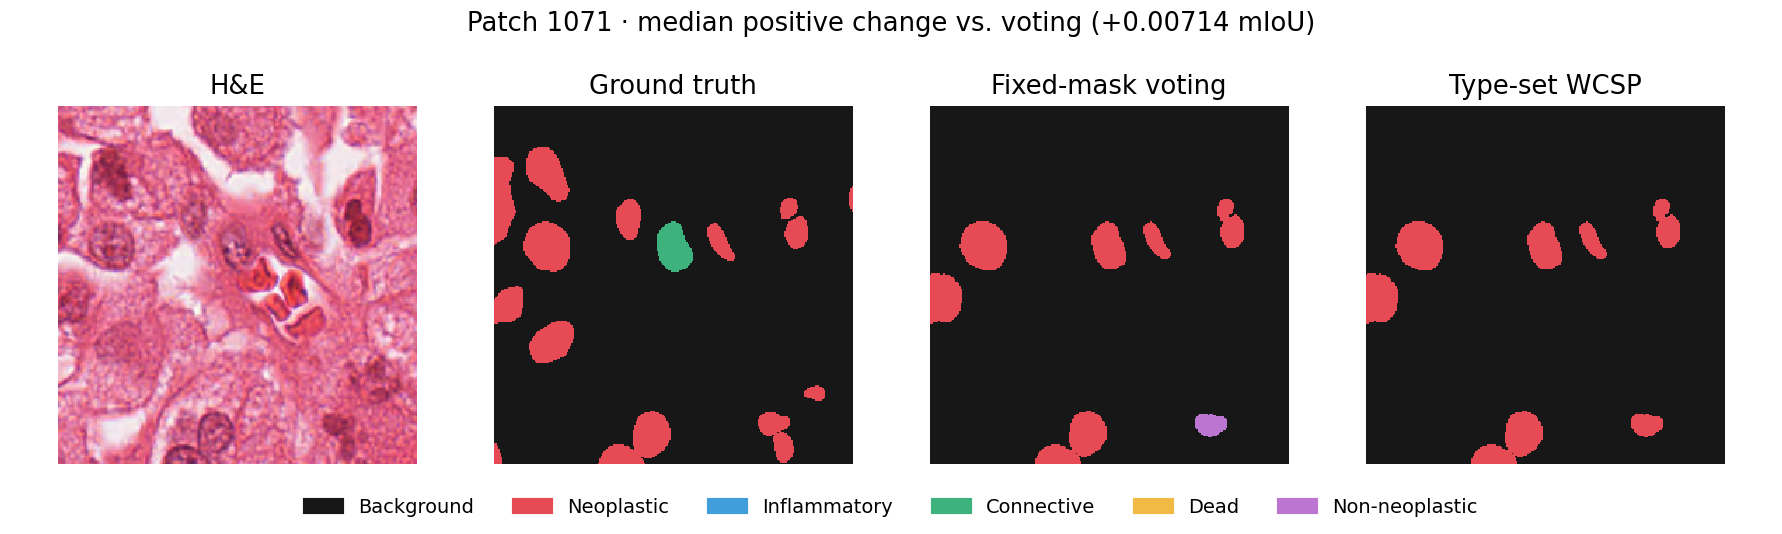
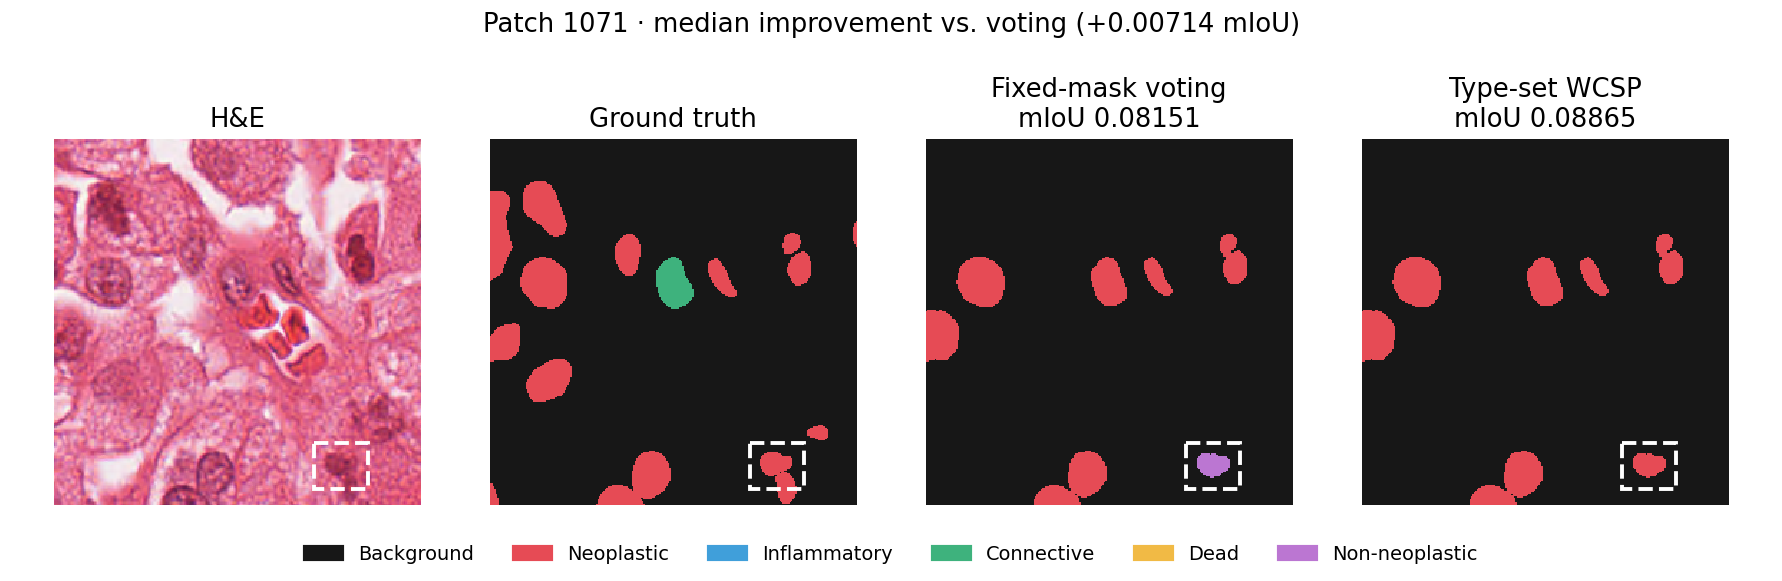
Highlight the corrected nucleus in the PanNuke presentation example

diff --git a/experiments/pannuke_wcsp/presence_scale_20261114/diagnostics.py b/experiments/pannuke_wcsp/presence_scale_20261114/diagnostics.py
@@ -6,7 +6,7 @@ import matplotlib
 matplotlib.use("Agg")
 import matplotlib.pyplot as plt
 from matplotlib.colors import ListedColormap
-from matplotlib.patches import Patch
+from matplotlib.patches import Patch, Rectangle
 import numpy as np
 from scipy.ndimage import distance_transform_edt
 
@@ -139,16 +139,28 @@ def example_figure(example):
     vote, winner = [np.load(CACHE / "outputs" / key / f"{idx:04d}.npy")
                     for key in ("vote", "vote_presence_evidence_1")]
     base, refined = np.r_[0, vote][mask], np.r_[0, winner][mask]
-    fig, axes = plt.subplots(1, 4, figsize=(11.5, 3.45))
-    for ax, title, im in zip(axes, ("H&E", "Ground truth", "Fixed-mask voting", "Type-set WCSP"),
-                            (np.load(CACHE / f"rgb_{idx:04d}.npy"), gt, base, refined)):
-        ax.imshow(im, cmap=ListedColormap(COLORS), vmin=0, vmax=5, interpolation="nearest")
+    module = load_previous()
+    score = lambda labels: module.nucleus.score(module.nucleus.confusion(gt, labels))
+    before, after = score(base), score(refined)
+    np.testing.assert_allclose(after - before, delta, atol=1e-12)
+    y, x = np.nonzero(base != refined)
+    assert len(x), "Selected patch must show a changed nucleus."
+    left, right = max(0, x.min() - 8), min(gt.shape[1] - 1, x.max() + 8)
+    top, bottom = max(0, y.min() - 8), min(gt.shape[0] - 1, y.max() + 8)
+    titles = ("H&E", "Ground truth", f"Fixed-mask voting\nmIoU {before:.5f}",
+              f"Type-set WCSP\nmIoU {after:.5f}")
+    images = (np.load(CACHE / f"rgb_{idx:04d}.npy"), gt, base, refined)
+    fig, axes = plt.subplots(1, 4, figsize=(11.5, 3.75))
+    for ax, title, image in zip(axes, titles, images):
+        ax.imshow(image, cmap=ListedColormap(COLORS), vmin=0, vmax=5, interpolation="nearest")
+        ax.add_patch(Rectangle((left, top), right-left, bottom-top, fill=False,
+                               edgecolor="white", linewidth=1.8, linestyle="--"))
         ax.set_title(title)
         ax.axis("off")
-    fig.subplots_adjust(left=.02, right=.98, top=.8, bottom=.13, wspace=.08)
+    fig.subplots_adjust(left=.02, right=.98, top=.76, bottom=.13, wspace=.08)
     fig.legend(handles=[Patch(color=c, label=l) for c, l in zip(COLORS, LABELS)], ncol=6,
                loc="lower center", frameon=False, fontsize=9)
-    fig.suptitle(f"Patch {idx} · median positive change vs. voting ({delta:+.5f} mIoU)")
+    fig.suptitle(f"Patch {idx} · median improvement vs. voting ({delta:+.5f} mIoU)")
     fig.savefig(HERE / "type_set_example.png", dpi=155)
     plt.close(fig)
 

diff --git a/deliverables/deliverable_6.md b/deliverables/deliverable_6.md
@@ -161,7 +161,7 @@
 
 ![Patch 1071. The lower-right nucleus changes type and keeps its outline.](../experiments/pannuke_wcsp/presence_scale_20261114/type_set_example.png)
 
-- **Read the example:** the lower-right nucleus goes from purple (Non-neoplastic epithelial) to red (Neoplastic). This is the median positive change among improved patches.
+- **Read the example:** point to the dashed box in the last three panels. The annotation is red (Neoplastic), ordinary voting is purple (Non-neoplastic epithelial), and WCSP changes it back to red while keeping the outline. Patch mIoU rose from **0.08151 to 0.08865** (Δ **+0.00714**). This is the median change among improved patches.
 - **Why patch context helped:** voting scores each nucleus alone. When one nucleus introduces a new type, it changes the patch-wide cost for the whole assignment. The solver charges that cost once per patch. On patch 1071, the change raised the local vote cost from **0.795 to 2.473**, but lowered the fitted type-set cost from **7.185 to 2.725**. With the model support term included, total cost fell from **8.232 to 5.199**. The ground-truth annotation agrees with the resulting type in this example.
 - **Evidence across the 300 patches:** the type-set rule cut **13,137** wrong pixels assigned to a type missing from the annotation. It gained **0.00249 mIoU** over voting on identical masks. A patch prior can still penalize a real but unusual type, so this is an overall gain with class-specific limits.
 
